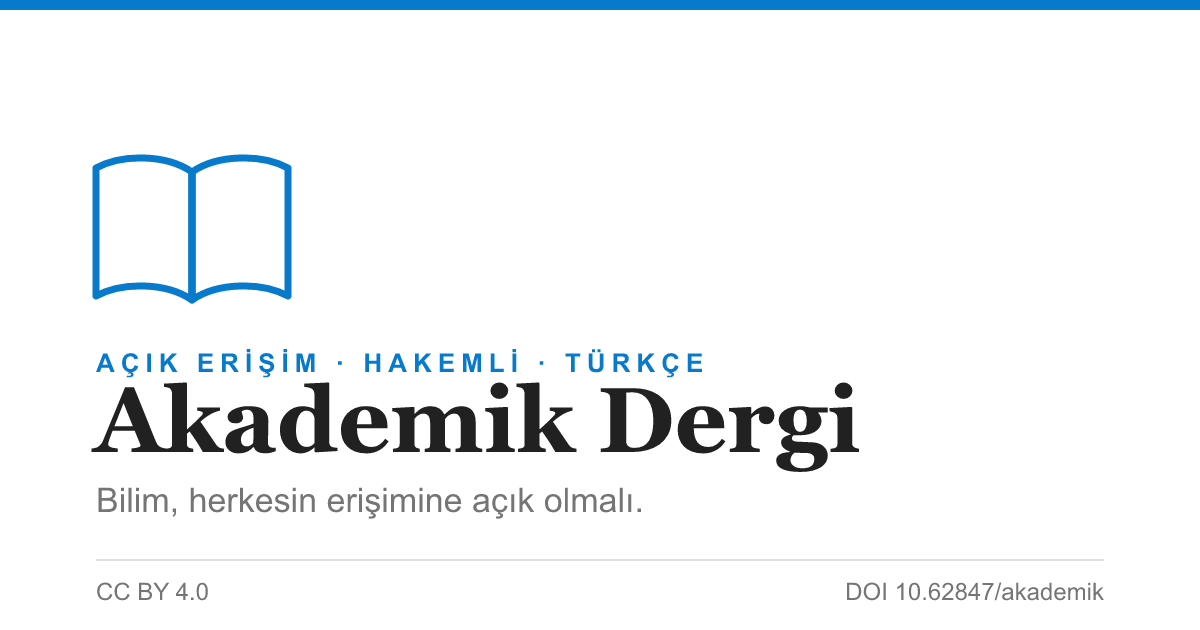
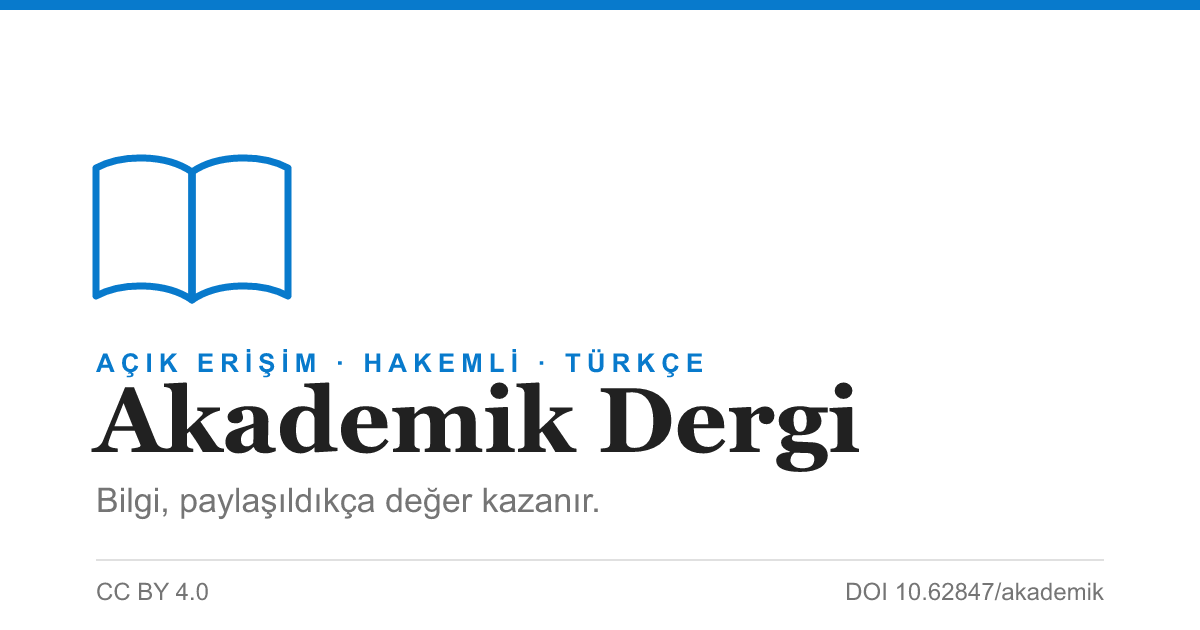
content: hero metnini sadeleştir ve og:image'i eşleştir

Changed region(s): [[0.0925, 0.7841, 0.5242, 0.8143]]

diff --git a/src/routes/index.tsx b/src/routes/index.tsx
@@ -42,10 +42,10 @@ function HomePage() {
             Açık Erişim · Hakemli · Türkçe
           </div>
           <h1 className="font-serif-display text-4xl font-bold leading-tight tracking-tight sm:text-6xl">
-            Bilim, herkesin erişimine açık olmalı.
+            Bilgi, paylaşıldıkça değer kazanır.
           </h1>
           <p className="mx-auto mt-6 max-w-2xl text-lg leading-relaxed text-muted-foreground">
-            Akademik Dergi; tüm disiplinlerden Türkçe araştırmaları, ücretsiz ve etkileşimli bir okuma deneyimiyle bilim topluluğuna sunar.
+            Akademik Dergi, Türkçe araştırmaları açık erişimle buluşturur — her disiplinden çalışmaya ücretsiz ve modern bir okuma deneyimi sunar.
           </p>
         </div>
       </section>